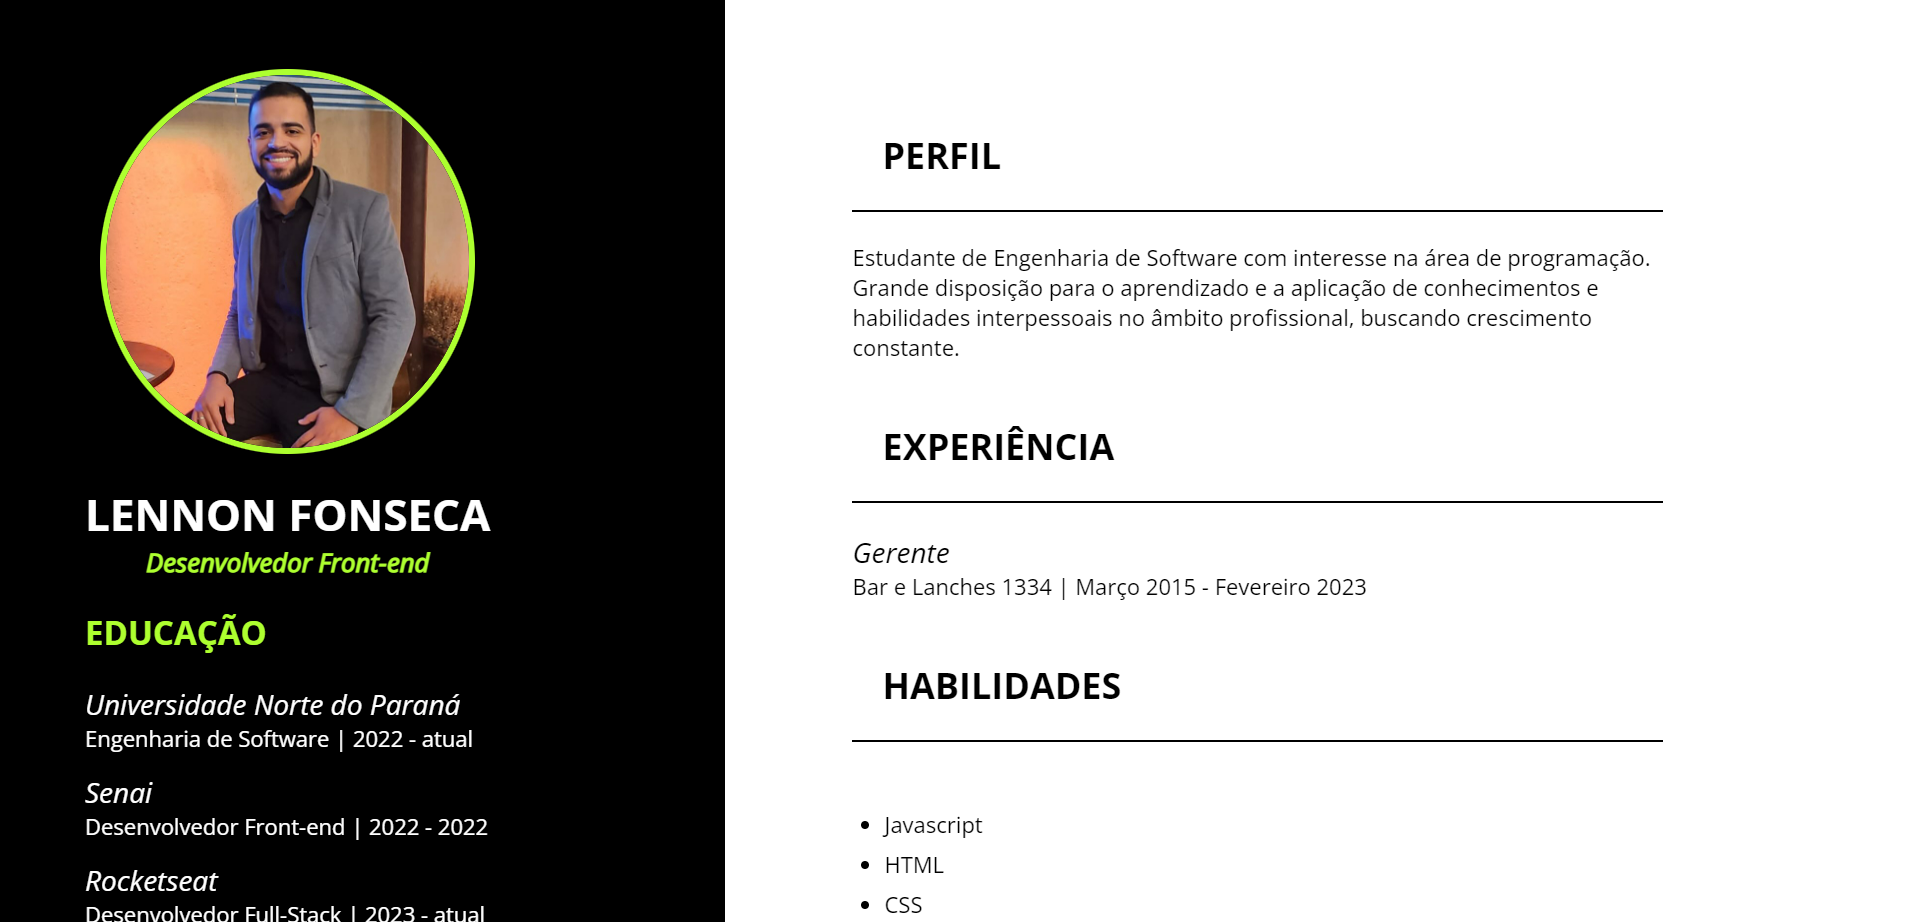
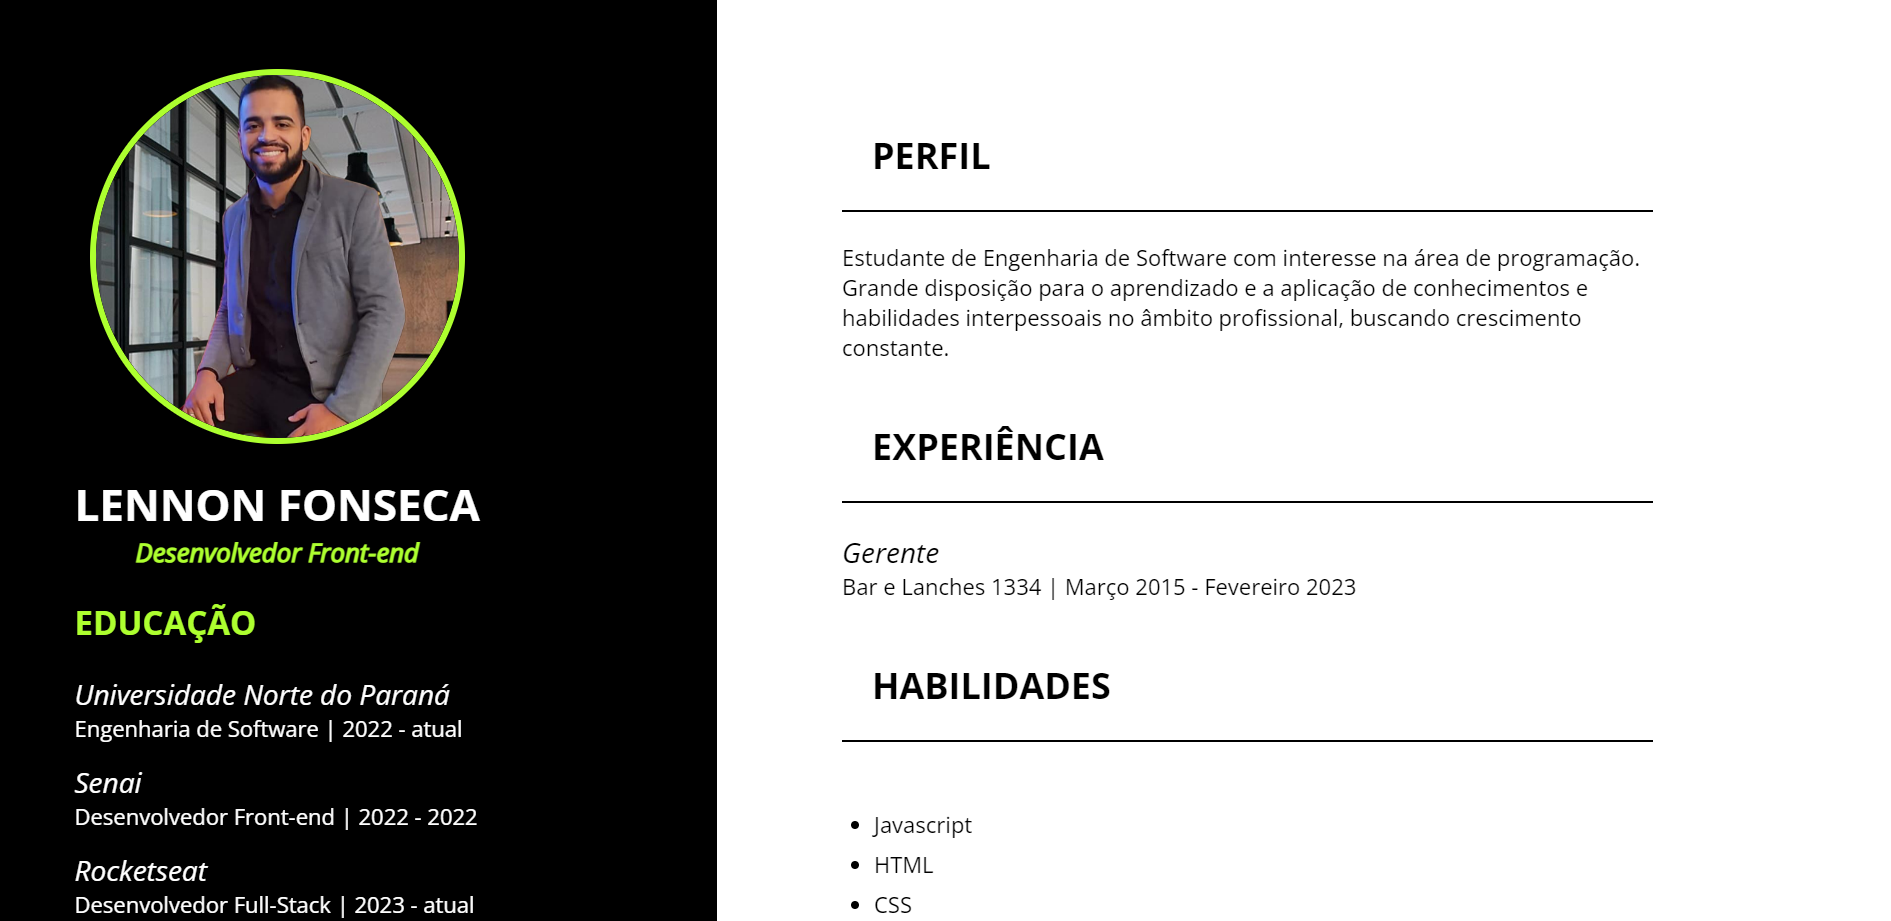
fix profile photo

diff --git a/index.html b/index.html
@@ -17,7 +17,7 @@
 
             <div class="main">
                 <div class="image">
-            <img src="./image/lennon-fonseca.jpg" alt="imagem de lennon fonseca">
+            <img src="./image/profile-pic (2).png" alt="imagem de lennon fonseca">
         </div>
 
             <h1>Lennon Fonseca</h1>
